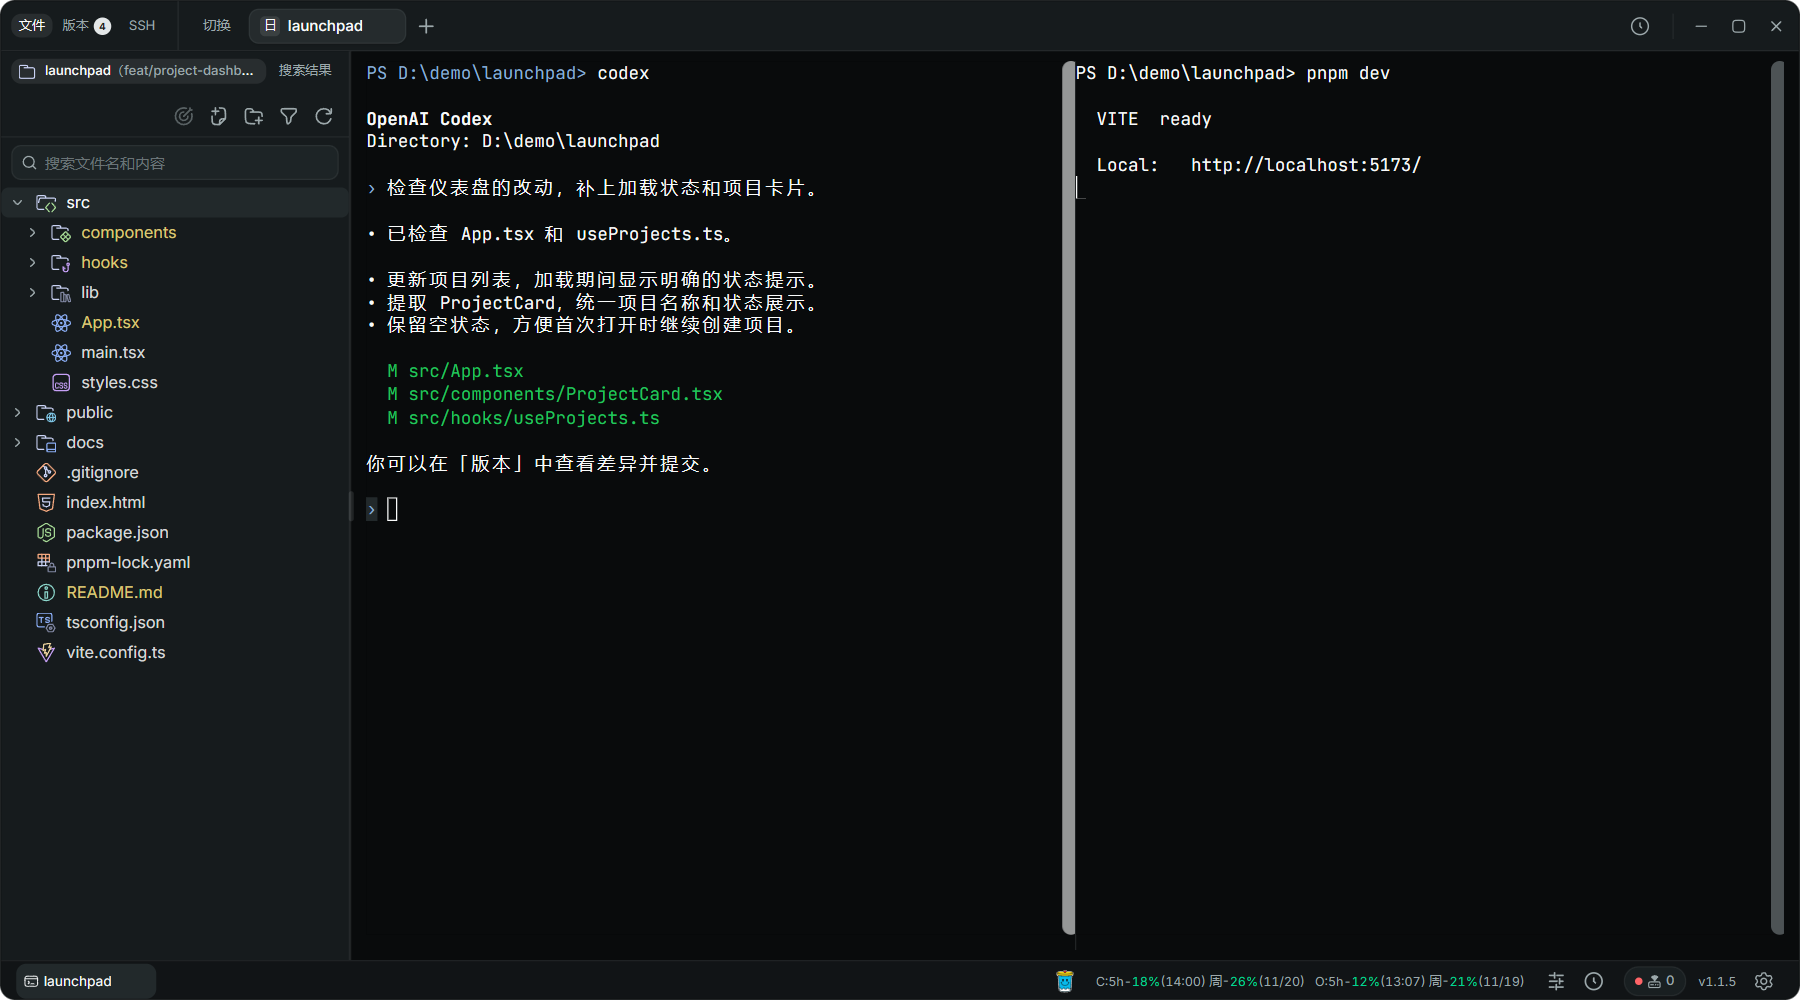
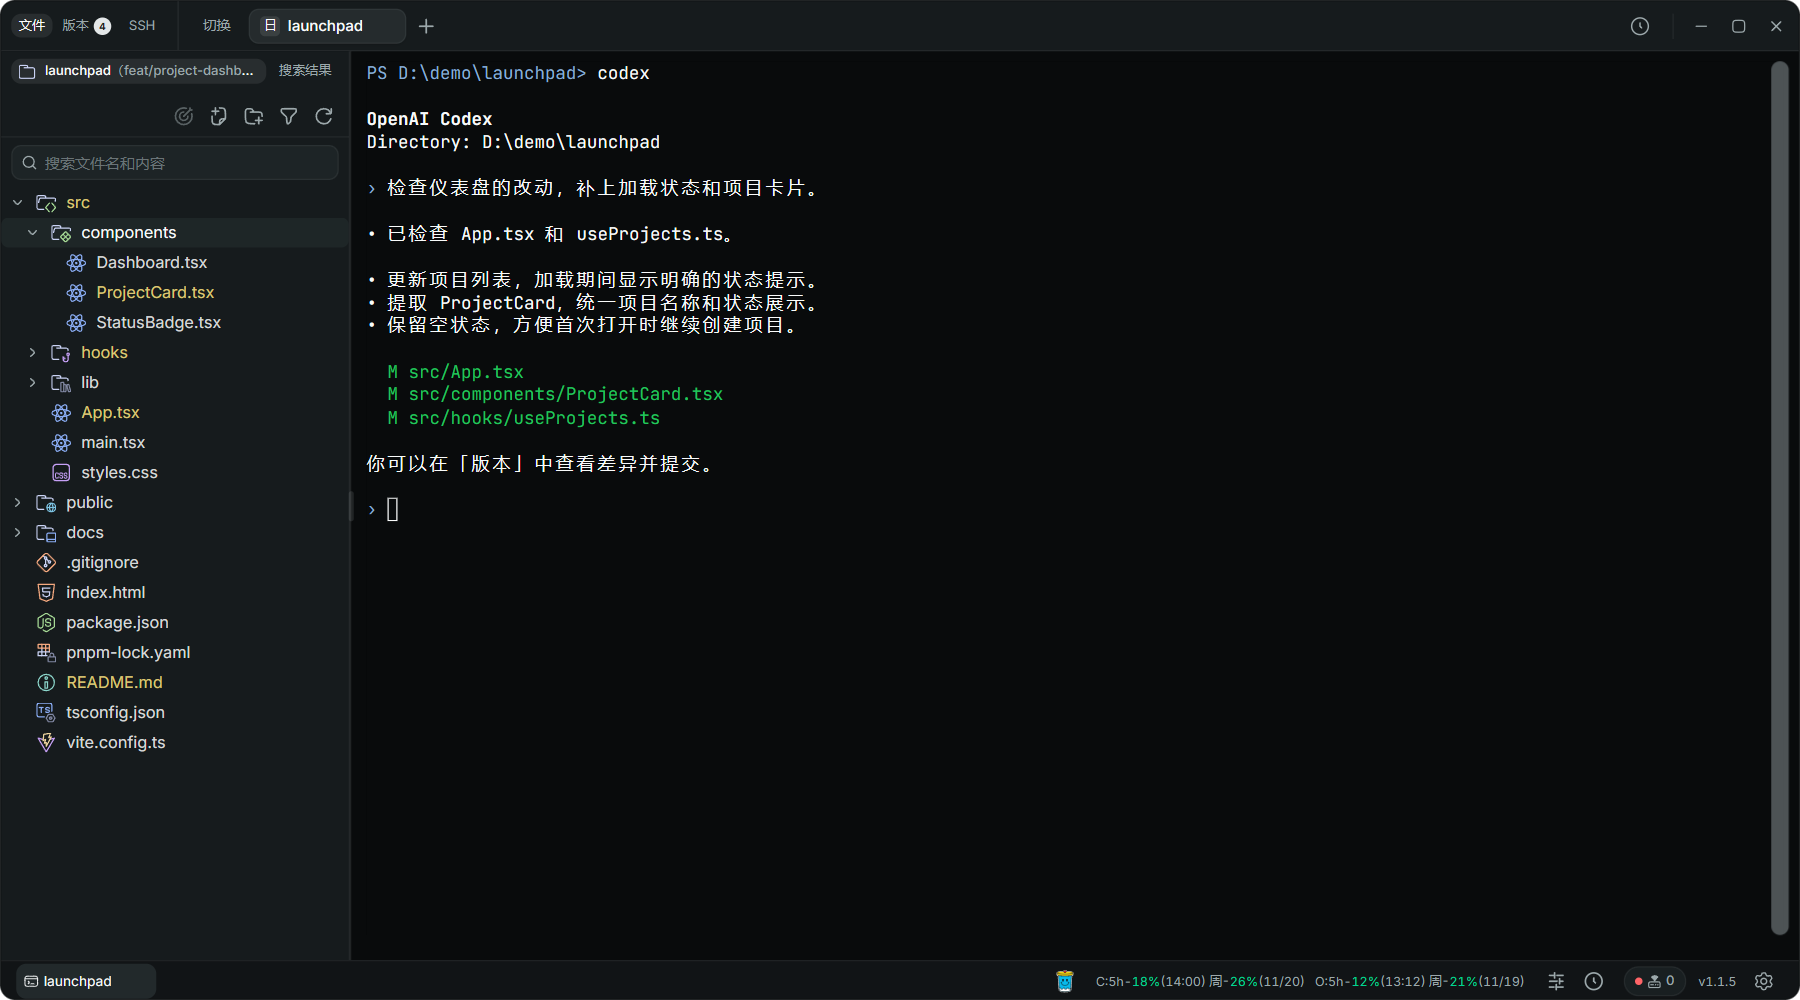
docs: 将首页封面改为单终端布局

diff --git a/README.en.md b/README.en.md
@@ -12,7 +12,7 @@ Keep using the Claude Code / Codex CLI you already know. Browse files, review di
 
 **Windows only.** Install and sign in to Claude Code / Codex separately. Account access and model charges are handled by the respective service.
 
-![awei-work workspace with a project file tree and split terminals](docs/screenshots/workspace.png)
+![awei-work workspace with a project file tree and a Codex terminal](docs/screenshots/workspace.png)
 
 > Screenshots show the current application UI with sample data. Projects, connections, terminal output, and usage figures are examples, not live model calls or server connections. The desktop UI is currently primarily in Chinese.
 

diff --git a/README.md b/README.md
@@ -12,7 +12,7 @@
 
 **仅支持 Windows。** Claude Code / Codex 需自行安装并登录，账号权限与模型费用由对应服务提供。
 
-![awei-work 工作区：项目文件树与分屏终端](docs/screenshots/workspace.png)
+![awei-work 工作区：项目文件树与 Codex 终端](docs/screenshots/workspace.png)
 
 > 截图使用当前应用界面和演示数据，展示布局与操作入口；项目、连接、终端内容和用量均为示例，不代表真实模型调用或服务器连接。桌面界面目前以中文为主。
 
